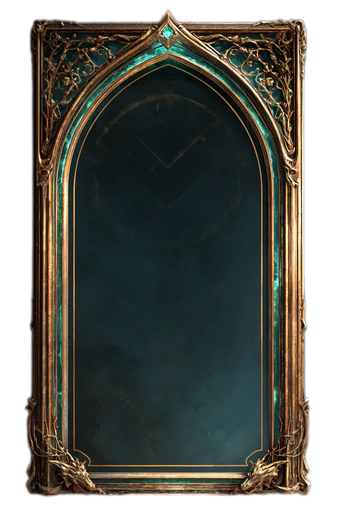
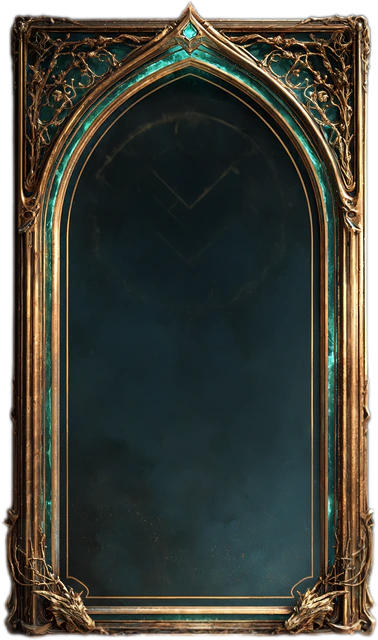
chore: 备份完整源码工程到 src 分支（React 18 + Vite 5 塔罗主题「奥术典籍馆」）

diff --git a/src/theme/pages.css b/src/theme/pages.css
@@ -91,11 +91,12 @@
 .gem-dot.ok { background: var(--teal-lt); box-shadow: 0 0 6px rgba(90,168,156,.8); }
 .gem-dot.bad { background: var(--fault-lt); box-shadow: 0 0 6px rgba(139,42,74,.8); }
 .practice-count { font-size: 12px; letter-spacing: 2px; color: var(--muted); white-space: nowrap; }
-/* 题卡 = 一张严格 2:3 的竖版塔罗牌：p2 原图 1066×1600 等比铺满，尖拱/藤蔓/龙首永不变形。
-   宽度受视口高度约束（×0.6663 = 1066/1600），保证整张牌一屏内完整可见。 */
+/* 题卡 = 一张严格等比的竖版塔罗牌：p2 已裁掉透明留白、从 2457×4701 原图重取为 768×1470 牌体，
+   100%×100% 铺满即零变形（留白不裁的话，可见牌面只占元素宽度 72%，且覆盖层会与牌面错位）。
+   宽度受视口高度约束（×0.5224 = 768/1470），保证整张牌一屏内完整可见。 */
 .q-card-wrap {
   position: relative; animation: rise-in .5s ease both; perspective: 1600px;
-  width: clamp(268px, min(600px, 94vw, calc((100vh - 132px) * 0.6663)), 600px);
+  width: clamp(268px, min(600px, 94vw, calc((100vh - 132px) * 0.5224)), 600px);
   margin: 0 auto;
 }
 /* 塔罗牌 3D 翻面：牌背封面旋开，露出题干正面 */
@@ -110,12 +111,13 @@
 @keyframes fly-tr { 60% { opacity: 1 } to { transform: translate(46vw, -46vh) scale(.05) rotate(9deg); opacity: 0 } }
 @keyframes fly-br { 60% { opacity: 1 } to { transform: translate(46vw, 46vh) scale(.05) rotate(-11deg); opacity: 0 } }
 .q-card {
-  position: relative; width: 100%; aspect-ratio: 1066 / 1600; container-type: inline-size;
+  position: relative; width: 100%; aspect-ratio: 768 / 1470; container-type: inline-size;
   background: url('/quiz-platform/img/p2.webp') center / 100% 100% no-repeat;
   filter: drop-shadow(0 24px 46px rgba(0,0,0,.6));
 }
-/* 牌面：内缩进纹样之内——上让尖拱宝石冠(26%)、左右让藤蔓(12.2%)、下让龙首(11%) */
-.q-face { position: absolute; inset: 26% 12.2% 11%; display: flex; flex-direction: column; min-height: 0; z-index: 1; }
+/* 牌面内缩值由金饰剖面实测换算（p2 已裁掉透明留白，画布=牌体 768×1470）：
+   上 29% 让开尖拱+宝石+玫瑰窗圆花，左 19.5% / 右 18% 让开藤蔓，下 13% 让开龙首 */
+.q-face { position: absolute; inset: 29% 18% 13% 19.5%; display: flex; flex-direction: column; min-height: 0; z-index: 1; }
 .q-face-scroll { flex: 1 1 auto; min-height: 0; overflow-y: auto; overflow-x: hidden; padding-right: 5px; }
 .q-face-scroll::-webkit-scrollbar { width: 5px; }
 .q-face-foot { flex: 0 0 auto; padding-top: 8px; }
@@ -173,18 +175,18 @@
 .opt-row.right { border-color: var(--teal-lt); background: rgba(31,90,82,.35); color: #d9efe9; }
 .opt-row.wronged { border-color: var(--fault-lt); background: rgba(107,26,58,.28); color: #d9a0b0; }
 .opt-row.missed { border: 1.5px dashed var(--teal); color: var(--teal-lt); }
-/* 判断题 = 两张对立的竖版尖拱铜牌（真实素材 341×512，2:3），选中即被拿起 */
+/* 判断题 = 两张对立的竖版尖拱铜牌（两张已归一化到同一画布 378×640，成为真正的一对），选中即被拿起 */
 .judge-pair { display: flex; gap: 12px; justify-content: center; align-items: flex-end; margin-top: 4px; }
 .judge-card {
-  position: relative; flex: 0 0 auto; width: auto; height: clamp(132px, 36cqw, 258px);
-  aspect-ratio: 341 / 512; border: none; background-color: transparent;
+  position: relative; flex: 0 1 auto; width: 46%; max-width: 190px; height: auto;
+  aspect-ratio: 378 / 640; border: none; background-color: transparent;
   background-position: center; background-size: 100% 100%; background-repeat: no-repeat;
   display: flex; align-items: flex-end; justify-content: center;
   filter: drop-shadow(0 10px 20px rgba(0,0,0,.5));
   transition: transform .22s var(--ease-pop), filter .22s ease, opacity .22s ease;
 }
 .judge-label {
-  font-size: clamp(11px, 2.9cqw, 15px); letter-spacing: 4px; color: #e2d5ab; padding: 0 10px 7%;
+  font-size: clamp(11px, 2.9cqw, 15px); letter-spacing: 4px; color: #e2d5ab; padding: 0 8% 15%;
   text-shadow: 0 1px 4px rgba(0,0,0,.95), 0 0 12px rgba(0,0,0,.7);
 }
 .judge-card:hover { transform: translateY(-6px); }
@@ -240,15 +242,15 @@
 
 /* ── 答案封印：未启封前真理被暗红蜡封（p16 触手纹封印牌叠）遮挡 ── */
 .seal-lock {
-  position: relative; display: flex; align-items: center; gap: 10px; margin-top: 12px;
-  padding: 9px 12px 9px clamp(58px, 17cqw, 78px);
+  position: relative; display: flex; align-items: center; gap: 8px; margin: 0 0 8px;
+  padding: 5px 10px 5px clamp(44px, 13cqw, 58px);
   border: 1px dashed rgba(139,42,74,.6);
   background: linear-gradient(100deg, rgba(42,10,24,.55), rgba(10,15,19,.3));
-  color: #c98a9d; letter-spacing: 2px; font-size: clamp(10px, 2.4cqw, 12.5px);
+  color: #c98a9d; letter-spacing: 1.5px; font-size: clamp(9.5px, 2.3cqw, 12px);
 }
 /* 蜡封三帧叠放：待机只显完整态，启封时 完整→半碎→碎裂 逐帧切换 */
-.seal-wax { position: absolute; left: 8px; top: 50%; transform: translateY(-50%);
-  width: clamp(40px, 12cqw, 58px); aspect-ratio: 1; }
+.seal-wax { position: absolute; left: 6px; top: 50%; transform: translateY(-50%);
+  width: clamp(32px, 9.5cqw, 46px); aspect-ratio: 1; }
 .seal-wax img { position: absolute; inset: 0; width: 100%; height: 100%; object-fit: contain; opacity: 0;
   filter: drop-shadow(0 0 8px rgba(139,42,74,.55)); }
 .seal-wax img.f1 { opacity: 1; animation: breathe 3.4s ease-in-out infinite; }
@@ -305,18 +307,21 @@
 .bank-search input:focus { box-shadow: var(--glow-teal), inset 0 0 16px rgba(58,138,126,.15); border-color: var(--teal-lt); }
 .bank-meta { display: flex; justify-content: space-between; align-items: center; font-size: 12.5px; color: var(--muted); letter-spacing: 1px; margin-bottom: 12px; flex-wrap: wrap; gap: 8px; }
 .deck-row { display: flex; gap: 12px; margin-bottom: 16px; }
-.deck { flex: 1; position: relative; border: 1px solid rgba(139,115,50,.5); background: rgba(21,29,36,.8); padding: 10px 12px; text-align: center; cursor: pointer; transition: all .2s ease; }
+/* min-width:0 必需：flex 子项默认 min-width:auto，select 会被最长选项文字（如「知识域：模拟与数字电子技术」）
+   顶住不能收缩，实测 390px 视口下三个筛选框把页面撑到 490px 造成横向溢出 */
+.deck { flex: 1; min-width: 0; position: relative; border: 1px solid rgba(139,115,50,.5); background: rgba(21,29,36,.8); padding: 10px 12px; text-align: center; cursor: pointer; transition: all .2s ease; }
+@media (max-width: 520px) { .deck-row { gap: 8px; } .deck { padding: 8px 4px; font-size: 12px; } }
 .deck:hover { border-color: var(--teal); box-shadow: var(--glow-teal); transform: translateY(-2px); }
 .deck h5 { font-size: 11px; letter-spacing: 2px; color: var(--muted); margin-bottom: 4px; }
 .deck .val { font-size: 14px; color: var(--teal-lt); letter-spacing: 1px; }
-/* 禁书库 = 一面竖版塔罗牌墙：每张牌严格 2:3（p2 原图 1066×1600 等比铺满，零变形），
+/* 禁书库 = 一面竖版塔罗牌墙：每张牌按牌体比例 768×1470 等比铺满（零变形），
    正面封印谜面，轻触 3D 翻面看此卷全部秘辛 */
-.bank-list { display: grid; grid-template-columns: repeat(auto-fill, minmax(198px, 1fr)); gap: 22px 18px; }
-@media (max-width: 520px) { .bank-list { grid-template-columns: repeat(auto-fill, minmax(148px, 1fr)); gap: 16px 12px; } }
+.bank-list { display: grid; grid-template-columns: repeat(auto-fill, minmax(214px, 1fr)); gap: 24px 18px; }
+@media (max-width: 520px) { .bank-list { grid-template-columns: repeat(auto-fill, minmax(156px, 1fr)); gap: 18px 12px; } }
 .bank-item {
-  position: relative; aspect-ratio: 1066 / 1600; cursor: pointer; perspective: 1200px; container-type: inline-size;
+  position: relative; aspect-ratio: 768 / 1470; cursor: pointer; perspective: 1200px; container-type: inline-size;
   /* 50 张牌一页：屏外卡牌不参与布局/绘制（aspect-ratio 保证占位高度不变，不会跳动） */
-  content-visibility: auto; contain-intrinsic-size: auto 300px;
+  content-visibility: auto; contain-intrinsic-size: auto 410px;
 }
 .bank-item .tarot-inner {
   position: relative; width: 100%; height: 100%; transform-style: preserve-3d;
@@ -334,7 +339,7 @@
   background-image: url('/quiz-platform/img/p6.webp'); }
 /* 牌面内缩：上让尖拱宝石冠、左右让藤蔓、下让龙首 */
 .tarot-face .face-in {
-  position: absolute; inset: 25% 12% 11%; display: flex; flex-direction: column; min-height: 0;
+  position: absolute; inset: 29% 18% 13% 19.5%; display: flex; flex-direction: column; min-height: 0;
   padding: 7px 7px 6px; background: rgba(8,13,17,.34); border: 1px solid rgba(201,168,76,.18);
   box-shadow: inset 0 0 20px rgba(0,0,0,.45);
 }
@@ -356,8 +361,8 @@
 .tarot-hint { text-align: center; letter-spacing: 2px; color: rgba(122,106,74,.95); margin-top: 5px;
   font-size: clamp(7.5px, 4.2cqw, 10px); }
 .bank-item.flipped .tarot-hint { visibility: hidden; }
-/* 掌握状态宝珠：钉在牌面右上藤蔓内缘 */
-.tarot-orb { position: absolute; top: 21%; right: 8.5%; z-index: 2; border-radius: 50%;
+/* 掌握状态宝珠：排在签条行内（原先绝对定位在 top 21%/right 8.5%，裁掉留白后会压到藤蔓上） */
+.tarot-orb { flex-shrink: 0; border-radius: 50%;
   width: clamp(8px, 5cqw, 12px); height: clamp(8px, 5cqw, 12px);
   border: 1.5px solid rgba(139,115,50,.75); background: rgba(10,14,18,.7); }
 .tarot-orb.half { background: rgba(58,138,126,.4); border-color: var(--teal); }

diff --git a/src/pages/Practice.jsx b/src/pages/Practice.jsx
@@ -69,6 +69,21 @@ export default function Practice() {
     sealTimer.current = setTimeout(() => setSeal('broken'), 520)
   }
 
+  /* 牌面是固定比例的塔罗牌，正文区可能溢出：答案卷轴展开后自动滚到可见。
+     注意：这里必须用 store 的 phase，不能用下面才声明的 answered（const 有 TDZ，
+     依赖数组在渲染期求值会报 Cannot access 'answered' before initialization 而整页崩溃） */
+  useEffect(() => {
+    if (phase !== 'feedback' && !showAnswer) return
+    const sc = document.querySelector('.q-face-scroll')
+    const gp = document.querySelector('.grade-panel')
+    if (!sc || !gp) return
+    const t = setTimeout(() => {
+      const delta = gp.getBoundingClientRect().top - sc.getBoundingClientRect().top + sc.scrollTop - 4
+      sc.scrollTo({ top: Math.max(0, delta), behavior: 'smooth' })
+    }, 420)
+    return () => clearTimeout(t)
+  }, [phase, showAnswer])
+
   useEffect(() => {
     const t = setInterval(() => setElapsed(Math.floor((Date.now() - startAt.current) / 1000)), 1000)
     return () => clearInterval(t)
@@ -297,17 +312,6 @@ export default function Practice() {
               )}
             </div>
 
-            {/* 答案封印：未启封前，真理被暗红蜡封（触手纹）遮住 */}
-            {seal !== 'broken' && (
-              <div className={'seal-lock ' + seal}>
-                {/* 蜡封三帧：完整 → 半碎 → 碎裂散开（启封时逐帧切换） */}
-                <span className="seal-wax" aria-hidden="true">
-                  {A.waxSeal.map((s, k) => <img key={k} className={'f' + (k + 1)} src={s} alt="" decoding="async" />)}
-                </span>
-                <span>{objective ? '真理已封印 · 解读符文后启封' : '参考答案已封印 · 展开卷轴后启封'}</span>
-              </div>
-            )}
-
             {/* 判分反馈：启封后卷轴自上而下展开 */}
             {answered && (
               <div className="grade-panel">
@@ -345,6 +349,16 @@ export default function Practice() {
 
           {/* 牌底：铜质藤蔓花纹分隔 + 当前唯一主操作（不随正文滚动，永远在手边） */}
           <div className="q-face-foot">
+            {/* 答案封印：钉在牌底（不随正文滚动），未启封前一直看得见 */}
+            {seal !== 'broken' && (
+              <div className={'seal-lock ' + seal}>
+                {/* 蜡封三帧：完整 → 半碎 → 碎裂散开（启封时逐帧切换） */}
+                <span className="seal-wax" aria-hidden="true">
+                  {A.waxSeal.map((s, k) => <img key={k} className={'f' + (k + 1)} src={s} alt="" decoding="async" />)}
+                </span>
+                <span>{objective ? '真理已封印 · 解读符文后启封' : '参考答案已封印 · 展开卷轴后启封'}</span>
+              </div>
+            )}
             <div className="q-face-rule" aria-hidden="true" />
             {!answered && (objective ? (
               <GiltBtn size="lg" block className="reveal-btn" disabled={!canSubmit} onClick={doCheck}>

diff --git a/src/theme/global.css b/src/theme/global.css
@@ -65,7 +65,7 @@ input, textarea, select { font-family: inherit; }
 .font-cinzel { font-family: 'Cinzel', 'Noto Serif SC', serif; }
 
 /* ═══ 全局背景层 ═══ */
-.bg-stage { position: fixed; inset: 0; pointer-events: none; z-index: 0; }
+.bg-stage { position: fixed; inset: 0; pointer-events: none; z-index: 0; overflow: hidden; }
 .bg-texture { position: absolute; inset: 0; background-size: cover; background-position: center; opacity: .55; }
 .bg-stained {
   position: absolute; inset: 0;
@@ -129,8 +129,10 @@ input, textarea, select { font-family: inherit; }
    横条按原始尺寸贴左上角并被 header 盒子裁掉 → 只剩一角（“显示不完整”）。
    现改为整条 100%×100% 铺满且不重复，并把 header 撑到装饰条的合适高度。 */
 .page-head {
-  position: relative; text-align: center; margin-bottom: 20px;
-  min-height: 134px; padding: 26px 18px 24px;
+  position: relative; text-align: center; margin: 0 auto 20px; padding: 0 18px;
+  /* p45 原图 1600×324（比例 4.94）：宽限 800px + aspect-ratio 锁比例。
+     实测不锁的话在 828~992px 宽容器里会被拉成 6.18~7.40 倍比例，装饰条横向压扁 */
+  width: min(100%, 800px); aspect-ratio: 1600 / 324;
   display: flex; flex-direction: column; align-items: center; justify-content: center;
   background-size: 100% 100%; background-repeat: no-repeat; background-position: center;
 }
@@ -239,7 +241,7 @@ input, textarea, select { font-family: inherit; }
   animation: breathe 4s ease-in-out infinite;
   transition: transform .3s var(--ease-pop), box-shadow .3s ease;
 }
-.nav-center .nav-icon-wrap img { width: 40px; height: 40px; object-fit: contain; filter: drop-shadow(0 0 10px rgba(90,168,156,.5)); transition: transform .35s var(--ease-pop); }
+.nav-center .nav-icon-wrap img { width: 38px; height: 38px; object-fit: contain; filter: drop-shadow(0 0 10px rgba(90,168,156,.5)); transition: transform .35s var(--ease-pop); }
 .nav-center.active .nav-icon-wrap img { transform: rotateY(360deg); }
 .nav-center.active .nav-icon-wrap { box-shadow: 0 0 22px rgba(90,168,156,.7), inset 0 0 14px rgba(90,168,156,.4); }
 .nav-center:active .nav-icon-wrap { transform: scale(.92) rotate(20deg); }
@@ -338,7 +340,7 @@ input, textarea, select { font-family: inherit; }
 .empty-state img { width: 130px; max-width: 40%; opacity: .8; filter: sepia(.3) brightness(.85); animation: float-y 5s ease-in-out infinite; margin-bottom: 14px; }
 
 @media (max-width: 640px) {
-  .page-head { min-height: 104px; padding: 18px 10px 16px; }
+  .page-head { padding: 0 10px; }
   .page-head h1 { font-size: 21px; letter-spacing: 4px; }
   .panel { padding: 16px; }
 }

diff --git a/src/assets.js b/src/assets.js
@@ -48,13 +48,13 @@ export const A = {
   divider: img('p44.png'),         // 铜质花纹分隔条
   titleDecor: img('p45.png'),      // 页面顶部标题装饰条
   /* ── 外部补充素材（用户提供，已经 ingest-assets.mjs 零感知损失压缩）── */
-  navIcons: { learn: img('nav-learn.webp'), bank: img('nav-bank.webp'), import: img('nav-import.webp'), stats: img('nav-stats.webp'), settings: img('nav-settings.webp') },
-  markRadio: { off: img('mark-radio-off.webp'), on: img('mark-radio-on.webp') },   // 单选符文框两态
-  markCheck: { off: img('mark-check-off.webp'), on: img('mark-check-on.webp') },   // 多选符文框两态
-  judgeCard: { ok: img('judge-true.webp'), no: img('judge-false.webp') },          // 判断题尖拱铜牌
-  waxSeal: [img('seal-1.webp'), img('seal-2.webp'), img('seal-3.webp')],           // 蜡封：完整/半碎/碎裂
-  cracks: [img('crack-1.webp'), img('crack-2.webp'), img('crack-3.webp')],         // 牌面裂纹蔓延三帧
-  abyss: [img('abyss-1.webp'), img('abyss-2.webp'), img('abyss-3.webp')]           // 深渊不可名状剑影
+  navIcons: { learn: img('nav-learn-n.webp'), bank: img('nav-bank-n.webp'), import: img('nav-import-n.webp'), stats: img('nav-stats-n.webp'), settings: img('nav-settings-n.webp') },
+  markRadio: { off: img('mark-radio-off-n.webp'), on: img('mark-radio-on-n.webp') },   // 单选符文框两态
+  markCheck: { off: img('mark-check-off-n.webp'), on: img('mark-check-on-n.webp') },   // 多选符文框两态
+  judgeCard: { ok: img('judge-true.webp'), no: img('judge-false.webp') },              // 判断题尖拱铜牌
+  waxSeal: [img('wax-1.webp'), img('wax-2.webp'), img('wax-3.webp')],                 // 蜡封：完整/半碎/碎裂
+  cracks: [img('crack-1.webp'), img('crack-2.webp'), img('crack-3.webp')],             // 牌面裂纹蔓延三帧
+  abyss: [img('abyss-1-n.webp'), img('abyss-2-n.webp'), img('abyss-3-n.webp')]         // 深渊不可名状剑影
 }
 
 export const TYPE_SEAL_INDEX = {

diff --git a/src/pages/Bank.jsx b/src/pages/Bank.jsx
@@ -103,6 +103,8 @@ export default function Bank() {
                     <img className="tarot-seal" src={A.seals[TYPE_SEAL_INDEX[q.type] ?? 0]} alt={q.type} title={q.type} loading="lazy" decoding="async" />
                     <p className="tarot-stem">{q.stem}</p>
                     <div className="tarot-tags">
+                      <span className={'tarot-orb' + (mastered ? ' full' : touched ? ' half' : '') + (last === false ? ' polluted' : '')}
+                        title={mastered ? '已掌握' : touched ? '复习中' : '未参悟'} />
                       {q.difficulty && A.gems[q.difficulty] && (
                         <img className="tarot-gem" src={A.gems[q.difficulty]} alt="" title={q.difficulty} loading="lazy" decoding="async" />)}
                       {q.knowledgeDomain && <span className="tag">{domainLabel(q.knowledgeDomain)}</span>}
@@ -110,8 +112,6 @@ export default function Bank() {
                     </div>
                     <span className="tarot-hint">✦ 轻触翻面 ✦</span>
                   </div>
-                  <span className={'tarot-orb' + (mastered ? ' full' : touched ? ' half' : '') + (last === false ? ' polluted' : '')}
-                    title={mastered ? '已掌握' : touched ? '复习中' : '未参悟'} />
                 </div>
 
                 {/* 背面：此卷全部信息 */}

diff --git a/README.md b/README.md
@@ -78,9 +78,30 @@ node scripts/push-src.mjs <GitHub_TOKEN> <app目录绝对路径> <tools目录绝
 ```powershell
 node scripts/optimize-assets.mjs   # 分级降采样 + WebP 转码 + 删未引用 + 自动改引用
 node scripts/ingest-assets.mjs     # 摄入外部新素材（按文件夹名前缀映射到语义文件名）
+node scripts/measure-assets.mjs    # 量 alpha 真实边界框 + 雕花边框的金饰剖面（定内缩/九切片值用）
+node scripts/normalize-assets.mjs  # 裁透明留白 + 同组素材统一到同一画布/实体尺寸
 node scripts/fix-assets.mjs        # 还原转大的素材 + 清死映射 + 引用可达校验
 node scripts/check-refs.mjs        # 校验 A.<key> 与磁盘文件一一对应（防 undefined 崩溃 / 404）
+node scripts/purge-dist.mjs        # 构建后从 dist 清除无人引用的孤儿素材
+powershell -File verify-ui.ps1     # agent-browser 实视口量几何 + 截图（配合 probe.js）
 ```
+
+### 实测几何常量（不要凭感觉改，这些是用 measure-assets / agent-browser 量出来的）
+
+| 对象 | 实测值 | 用在哪 |
+| --- | --- | --- |
+| p2 牌体（已裁透明留白，从 2457×4701 原图重取） | 768×1470，比例 **0.5224** | `.q-card` / `.bank-item` 的 `aspect-ratio` |
+| p2 金饰内缘（藤蔓/尖拱/龙首） | 上 29% 右 18% 下 13% 左 19.5% | `.q-face` / `.tarot-face .face-in` 的 `inset` |
+| p6 牌背 | 归一化到与 p2 同一画布 768×1470 | 题库牌背 / 答题入场翻牌封面 |
+| p45 标题装饰条 | 1600×324，比例 **4.94** | `.page-head` 用 `width:min(100%,800px)` + `aspect-ratio:1600/324` 锁比例 |
+| p35 答案卷轴 | **杆在左右两侧**（不是上下），杆宽约 19% | `border-image: 60 200 60 200 fill / 12px 38px stretch` |
+| 判断题铜牌 | 两张统一到 378×640（原实体比例 .591/.558 不一致） | `.judge-card` 的 `aspect-ratio` |
+| 符文选框 / 导航图标 | 实体统一 84 / 112（原先填充率 54.7%~93.1% 不齐） | 选中时不会缩水、五个图标视觉重量一致 |
+
+归一化前的两个坑（已修，别再退回去）：
+- **不裁透明留白**：p2 原本左右各有 13%/15% 透明边，`background-size:100% 100%` 下可见牌面只占元素宽度 72%，
+  而且裂纹层/翻牌封面按满盒铺会与可见牌面错位。
+- **内缩值凭感觉**：曾写成 `26% 12.2% 11%`，实测藤蔓占到 x=13%~27%，题干直接压在藤蔓上。
 
 ### 外部补充素材（用户第二批提供，已接入）
 
